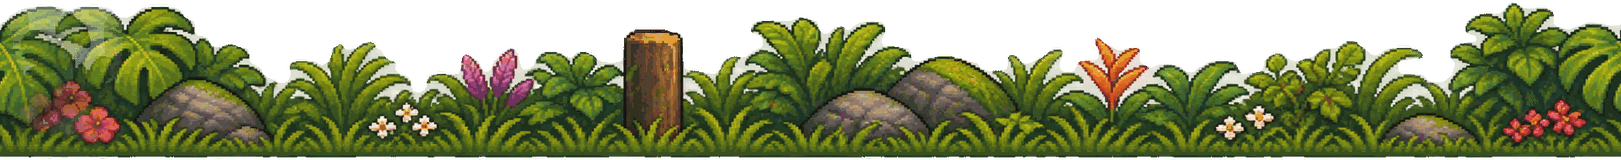
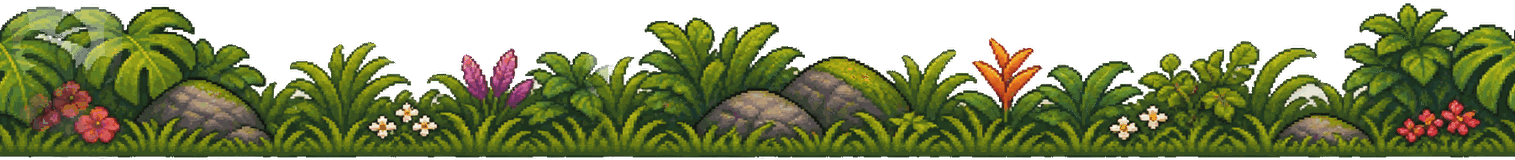
Jungle: clear the white backdrop round the foreground plants, drop the posts and fences, ferns over the rails
Claude-Session: https://claude.ai/code/session_01MtQBiqbKCuzkutaTWsEgBr

diff --git a/src/config/display.js b/src/config/display.js
@@ -66,7 +66,7 @@ export const PARALLAX_LAYERS = [
   // The rails, positioned so the rail's top edge is RAIL_Y.
   { key: 'rails', factor: 1, y: RAIL_Y - TRAIN_ART.rails.railTop, height: TRAIN_ART.rails.height, depth: DEPTH.track },
   // Undergrowth just in front of the rails (behind the train); empty unless an area sets it.
-  { key: 'railgrass', factor: 1, y: RAIL_Y + 12 - 8, height: 8, depth: DEPTH.lineside },
+  { key: 'railgrass', factor: 1, y: RAIL_Y + 8 - 8, height: 8, depth: DEPTH.lineside },
   // Big trees sweeping past in front of everything; empty unless an area sets it.
   { key: 'foreground-trees', factor: 1.7, y: 760 - 8, height: 8, depth: DEPTH.foreground + 0.5 },
   // Grass, flowers and bushes along the bottom of the screen, nearer the viewer than the line.

diff --git a/scripts/slice-areas.py b/scripts/slice-areas.py
@@ -27,7 +27,7 @@ HI = 2  # images are written at up to 2x their drawn size
 H_MOUNTAINS, H_HILLS, H_TREES, H_VILLAGE = 185, 120, 190, 150
 HILLS_PAD = 0.6  # hills continue down to the line in their bottom colour, so gaps never show sky
 FG_K, FG_BACK_K, BANK_K = 0.42, 0.36, 0.3
-RAILGRASS_H, FGTREES_H = 22, 440
+RAILGRASS_H, FGTREES_H = 30, 440
 
 
 def S(name, haze=None):
@@ -73,12 +73,57 @@ def scatter(img, boxes, width, spacing, *, overlap=0, grounded=None, min_w=40, s
     return compose(pieces, width, max(p.height for p in pieces), spacing=spacing, overlap=overlap, seed=seed)
 
 
-def tips(row, keep=0.42):
-    """Just the tops of a plant row (blade tips with gaps), fading out downwards, so it can
-    poke up over the rails without hiding them."""
+def clear_fringe(img, haze=200):
+    """Pale, washed-out pixels (left from a painted white backdrop) that touch the transparent
+    background are made transparent too, spreading inwards while they stay pale."""
+    a = np.asarray(img.convert('RGBA')).copy()
+    rgb = a[..., :3].astype(int)
+    pale = (rgb.mean(axis=2) > 150) & ((rgb.max(axis=2) - rgb.min(axis=2)) < 60)
+    bg = a[..., 3] < haze
+    while True:
+        g = bg.copy()
+        g[1:] |= bg[:-1]
+        g[:-1] |= bg[1:]
+        g[:, 1:] |= bg[:, :-1]
+        g[:, :-1] |= bg[:, 1:]
+        g = bg | (g & pale)
+        if (g == bg).all():
+            break
+        bg = g
+    a[..., 3] = np.where(bg, 0, a[..., 3])
+    return Image.fromarray(a)
+
+
+def drop_columns(img, ranges, blend=40):
+    """Cuts out x ranges (e.g. fence posts), blending each join so it doesn't show."""
+    keep, x = [], 0
+    for x0, x1 in sorted(ranges):
+        keep.append((x, x0))
+        x = x1
+    keep.append((x, img.width))
+    out = img.crop((keep[0][0], 0, keep[0][1], img.height))
+    for x0, x1 in keep[1:]:
+        nxt = img.crop((x0, 0, x1, img.height))
+        b = min(blend, out.width, nxt.width)
+        a1 = np.asarray(out).astype(float)
+        a2 = np.asarray(nxt).astype(float)
+        a1[..., :3] *= a1[..., 3:4] / 255
+        a2[..., :3] *= a2[..., 3:4] / 255
+        t = np.linspace(0, 1, b)[None, :, None]
+        mid = a1[:, -b:] * (1 - t) + a2[:, :b] * t
+        m = np.concatenate([a1[:, :-b], mid, a2[:, b:]], axis=1)
+        al = m[..., 3:4]
+        m[..., :3] = np.where(al > 0, m[..., :3] * 255 / np.maximum(al, 1e-6), 0)
+        out = Image.fromarray(np.clip(m, 0, 255).astype(np.uint8))
+    return out
+
+
+def tips(row, keep=0.42, solid=0.6):
+    """Just the tops of a plant row (blade tips with gaps), solid for the top `solid` of the
+    strip and then fading out, so it pokes up over the rails without hiding them."""
     top = row.crop((0, 0, row.width, int(row.height * keep)))
     a = np.asarray(top).copy()
-    fade = np.clip(np.linspace(1.6, 0, a.shape[0]), 0, 1)[:, None]
+    fade = np.clip((1 - np.linspace(0, 1, a.shape[0])) / (1 - solid), 0, 1)[:, None]
     a[..., 3] = (a[..., 3] * fade).astype(np.uint8)
     return Image.fromarray(a)
 
@@ -152,8 +197,11 @@ AREAS = {
         'village': lambda: scatter(S('jungle-kit.png'), [(0, 485, 1774, 608)], 4096, (140, 420)),
         'bank': lambda: bank(S('jungle-embankment.png'), (0, 225, 2172, 724), solid=False),
         'fg': ('jungle-foreground-rows.png', 200, (8, 199), (208, 370)),
+        'fg_clear': True,  # the sheet's white backdrop clings round the leaves
+        'fg_drop': {'front': [(775, 862)], 'back': [(1495, 1995)]},  # wooden posts and fences
         # Low ferns in front of the rails, and big trees that sweep past in front of the train.
-        'railgrass': lambda: tips(crossfade_tile(S('jungle-foreground-rows.png', 200).crop((40, 540, 2130, 701)), 160)),
+        'railgrass': lambda: tips(crossfade_tile(drop_columns(
+            clear_fringe(S('jungle-foreground-rows.png')).crop((40, 540, 2130, 701)), [(1080, 1500)]), 160), keep=0.55, solid=0.85),
         'fgtrees': lambda: scatter(S('jungle-kit.png'), [(0, 290, 1774, 464)], 6144, (700, 1600), min_w=120,
                                    keep=lambda p: p.height > 120, seed=4),
         'stops': [
@@ -236,14 +284,19 @@ def main():
         layers['ground'] = {'key': f'{area}-ground', 'height': 1500, 'tileHeight': round(bh, 1)}
 
         fg_sheet, haze, front, back = a['fg']
-        fs = S(fg_sheet, haze)
+        fs = clear_fringe(S(fg_sheet), haze) if a.get('fg_clear') else S(fg_sheet, haze)
+        drops = a.get('fg_drop', {})
         for name, rows, k in ((f'{area}-foreground', front, FG_K), (f'{area}-foreground-back', back, FG_BACK_K)):
             if rows is None:  # no row here: an empty strip, so the meadow's doesn't show
                 out['images'][name] = save(Image.new('RGBA', (64, 8), (0, 0, 0, 0)), f'backgrounds/{name}.png')
                 layers['foreground-back'] = {'key': name, 'height': 8}
                 continue
             y0, y1 = rows
-            row = crossfade_tile(fs.crop((40, y0, fs.width - 42, y1)), 160)
+            row = fs.crop((40, y0, fs.width - 42, y1))
+            ranges = drops.get('front' if name.endswith('foreground') else 'back')
+            if ranges:
+                row = drop_columns(row, [(x0 - 40, x1 - 40) for x0, x1 in ranges])
+            row = crossfade_tile(row, 160)
             h = row.height * k
             rel = save(scale(row, k * HI), f'backgrounds/{name}.png')
             out['images'][name] = rel
